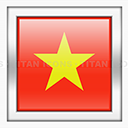
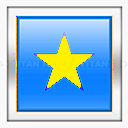
+ Difference tank's texture, boss's texture between 2 player

diff --git a/trunk/src/myjogl/gameobjects/Tank.java b/trunk/src/myjogl/gameobjects/Tank.java
@@ -24,7 +24,7 @@ public class Tank {
     public final static int TANK_FAST_HIT = 1; //millisecond between 2 fire time
     public final static int TANK_NORMAL_HIT = 1; //millisecond between 2 fire time
     //
-    public final static float TANK_FIRE_TIME = 500; //millisecond between 2 fire time
+    public final static float TANK_FIRE_TIME = 250; //millisecond between 2 fire time
     public final static float TANK_VELOCITY_NORMAL = 0.6f; //do not change it
     public final static float TANK_VELOCITY_SLOW = 0.15f; //do not change it
     public final static float TANK_VELOCITY_FAST = 0.6f; //do not change it
@@ -50,18 +50,21 @@ public class Tank {
     protected long fireTime = 0;
     GLModel model = null;
 
+    public boolean isClientPlayer = true;
+    
     //
     //init
     //
     /**
      * Init tank at default position and direction
      */
-    public Tank() {
+    public Tank(boolean isClientPlayer) {
         isAlive = true;
         position = new Vector3();
         direction = CDirections.UP;
         //
         lastPosition = position.Clone();
+        this.isClientPlayer = isClientPlayer;
     }
 
     /**
@@ -70,12 +73,13 @@ public class Tank {
      * @param pos position
      * @param dir direction in Directions.java class
      */
-    public Tank(Vector3 pos, int dir) {
+    public Tank(Vector3 pos, int dir, boolean isClientPlayer) {
         isAlive = true;
         position = new Vector3(pos);
         direction = dir;
         //
         lastPosition = position.Clone();
+        this.isClientPlayer = isClientPlayer;
     }
 
     public void load() {
@@ -86,8 +90,13 @@ public class Tank {
             bullets[i].isAlive = false; //start by false
         }
 
-        model = ModelLoaderOBJ.LoadModel("data/model/tank.obj",
-                "data/model/tank.mtl", "data/model/tank.png", Global.drawable);
+        if (isClientPlayer) {
+            model = ModelLoaderOBJ.LoadModel("data/model/tank.obj",
+                    "data/model/tank.mtl", "data/model/tank.png", Global.drawable);
+        } else {
+            model = ModelLoaderOBJ.LoadModel("data/model/tank.obj",
+                    "data/model/tank.mtl", "data/model/tankAI.png", Global.drawable);
+        }
 
         Vector3 a = getPosition().Clone();
         float scale = 0.1f;

diff --git a/trunk/src/myjogl/gameview/MainGameView.java b/trunk/src/myjogl/gameview/MainGameView.java
@@ -282,11 +282,11 @@ public class MainGameView implements GameView {
 
             //playerBoss
             this.playerBossPosition = TankMap.getInst().bossPosition.Clone();
-            this.playerBoss.reset(playerBossPosition, CDirections.UP);
+            this.playerBoss.reset(playerBossPosition, CDirections.UP, playerBoss.isClientBoss);
 
             //opponentBoss
             this.opponentBossPosition = TankMap.getInst().bossAiPosition.Clone();
-            this.opponentBoss.reset(opponentBossPosition, CDirections.UP);
+            this.opponentBoss.reset(opponentBossPosition, CDirections.UP, opponentBoss.isClientBoss);
             
             //playerTank
             Vector3 v = ((Vector3) TankMap.getInst().listTankPosition.get(0)).Clone();
@@ -355,19 +355,19 @@ public class MainGameView implements GameView {
         //----------------
 
         //playerBoss
-        playerBoss = new Boss();
+        playerBoss = new Boss(true);
         playerBoss.load();
         
         //opponentBoss
-        opponentBoss = new Boss();
+        opponentBoss = new Boss(false);
         opponentBoss.load();
                 
         //playerTank
-        playerTank = new Tank();
+        playerTank = new Tank(true);
         playerTank.load();
         
         //opponentTank
-        opponentTank = new Tank();
+        opponentTank = new Tank(false);
         opponentTank.load();
 
 //        this.tankAis = new TankAI[MAX_CURRENT_AI];

diff --git a/trunk/src/myjogl/gameobjects/Boss.java b/trunk/src/myjogl/gameobjects/Boss.java
@@ -28,27 +28,37 @@ public class Boss {
     public boolean isAlive;
     //
     private Texture tt;
+    public boolean isClientBoss;    
 
-    public Boss() {
+    public Boss(boolean isClientBoss) {
         position = new Vector3();
         direction = CDirections.UP;
         isAlive = true;
+        this.isClientBoss = isClientBoss;
     }
 
-    public Boss(Vector3 pos, int dir) {
+    public Boss(Vector3 pos, int dir, boolean isClientBoss) {
         position = pos.Clone();
         direction = dir;
         isAlive = true;
+        this.isClientBoss = isClientBoss;
     }
 
-    public void reset(Vector3 pos, int dir) {
+    public void reset(Vector3 pos, int dir, boolean isClientBoss) {
         position = pos.Clone();
         direction = dir;
         isAlive = true;
+        this.isClientBoss = isClientBoss;
     }
 
     public void load() {
-        tt = ResourceManager.getInst().getTexture("data/game/boss.png", false, GL.GL_REPEAT);
+        
+        if (isClientBoss) {
+            tt = ResourceManager.getInst().getTexture("data/game/boss.png", false, GL.GL_REPEAT);
+        } else {
+            tt = ResourceManager.getInst().getTexture("data/game/bossAI.png", false, GL.GL_REPEAT);
+        }
+        
 
         //
         Vector3 a = position.Clone();

diff --git a/trunk/src/myjogl/gameobjects/TankAI.java b/trunk/src/myjogl/gameobjects/TankAI.java
@@ -5,7 +5,6 @@
 package myjogl.gameobjects;
 
 import java.util.Random;
-import javax.media.opengl.GL;
 import myjogl.Global;
 import static myjogl.gameobjects.Tank.TANK_NORMAL_HIT;
 import static myjogl.gameobjects.Tank.TANK_VELOCITY_FAST;
@@ -34,7 +33,7 @@ public class TankAI extends Tank {
      * @param id indicate what kind of tank AI (in ID class)
      */
     public TankAI(int id) {
-        super();
+        super(false);
         counterFire = 0;
         this.id = id;
 
